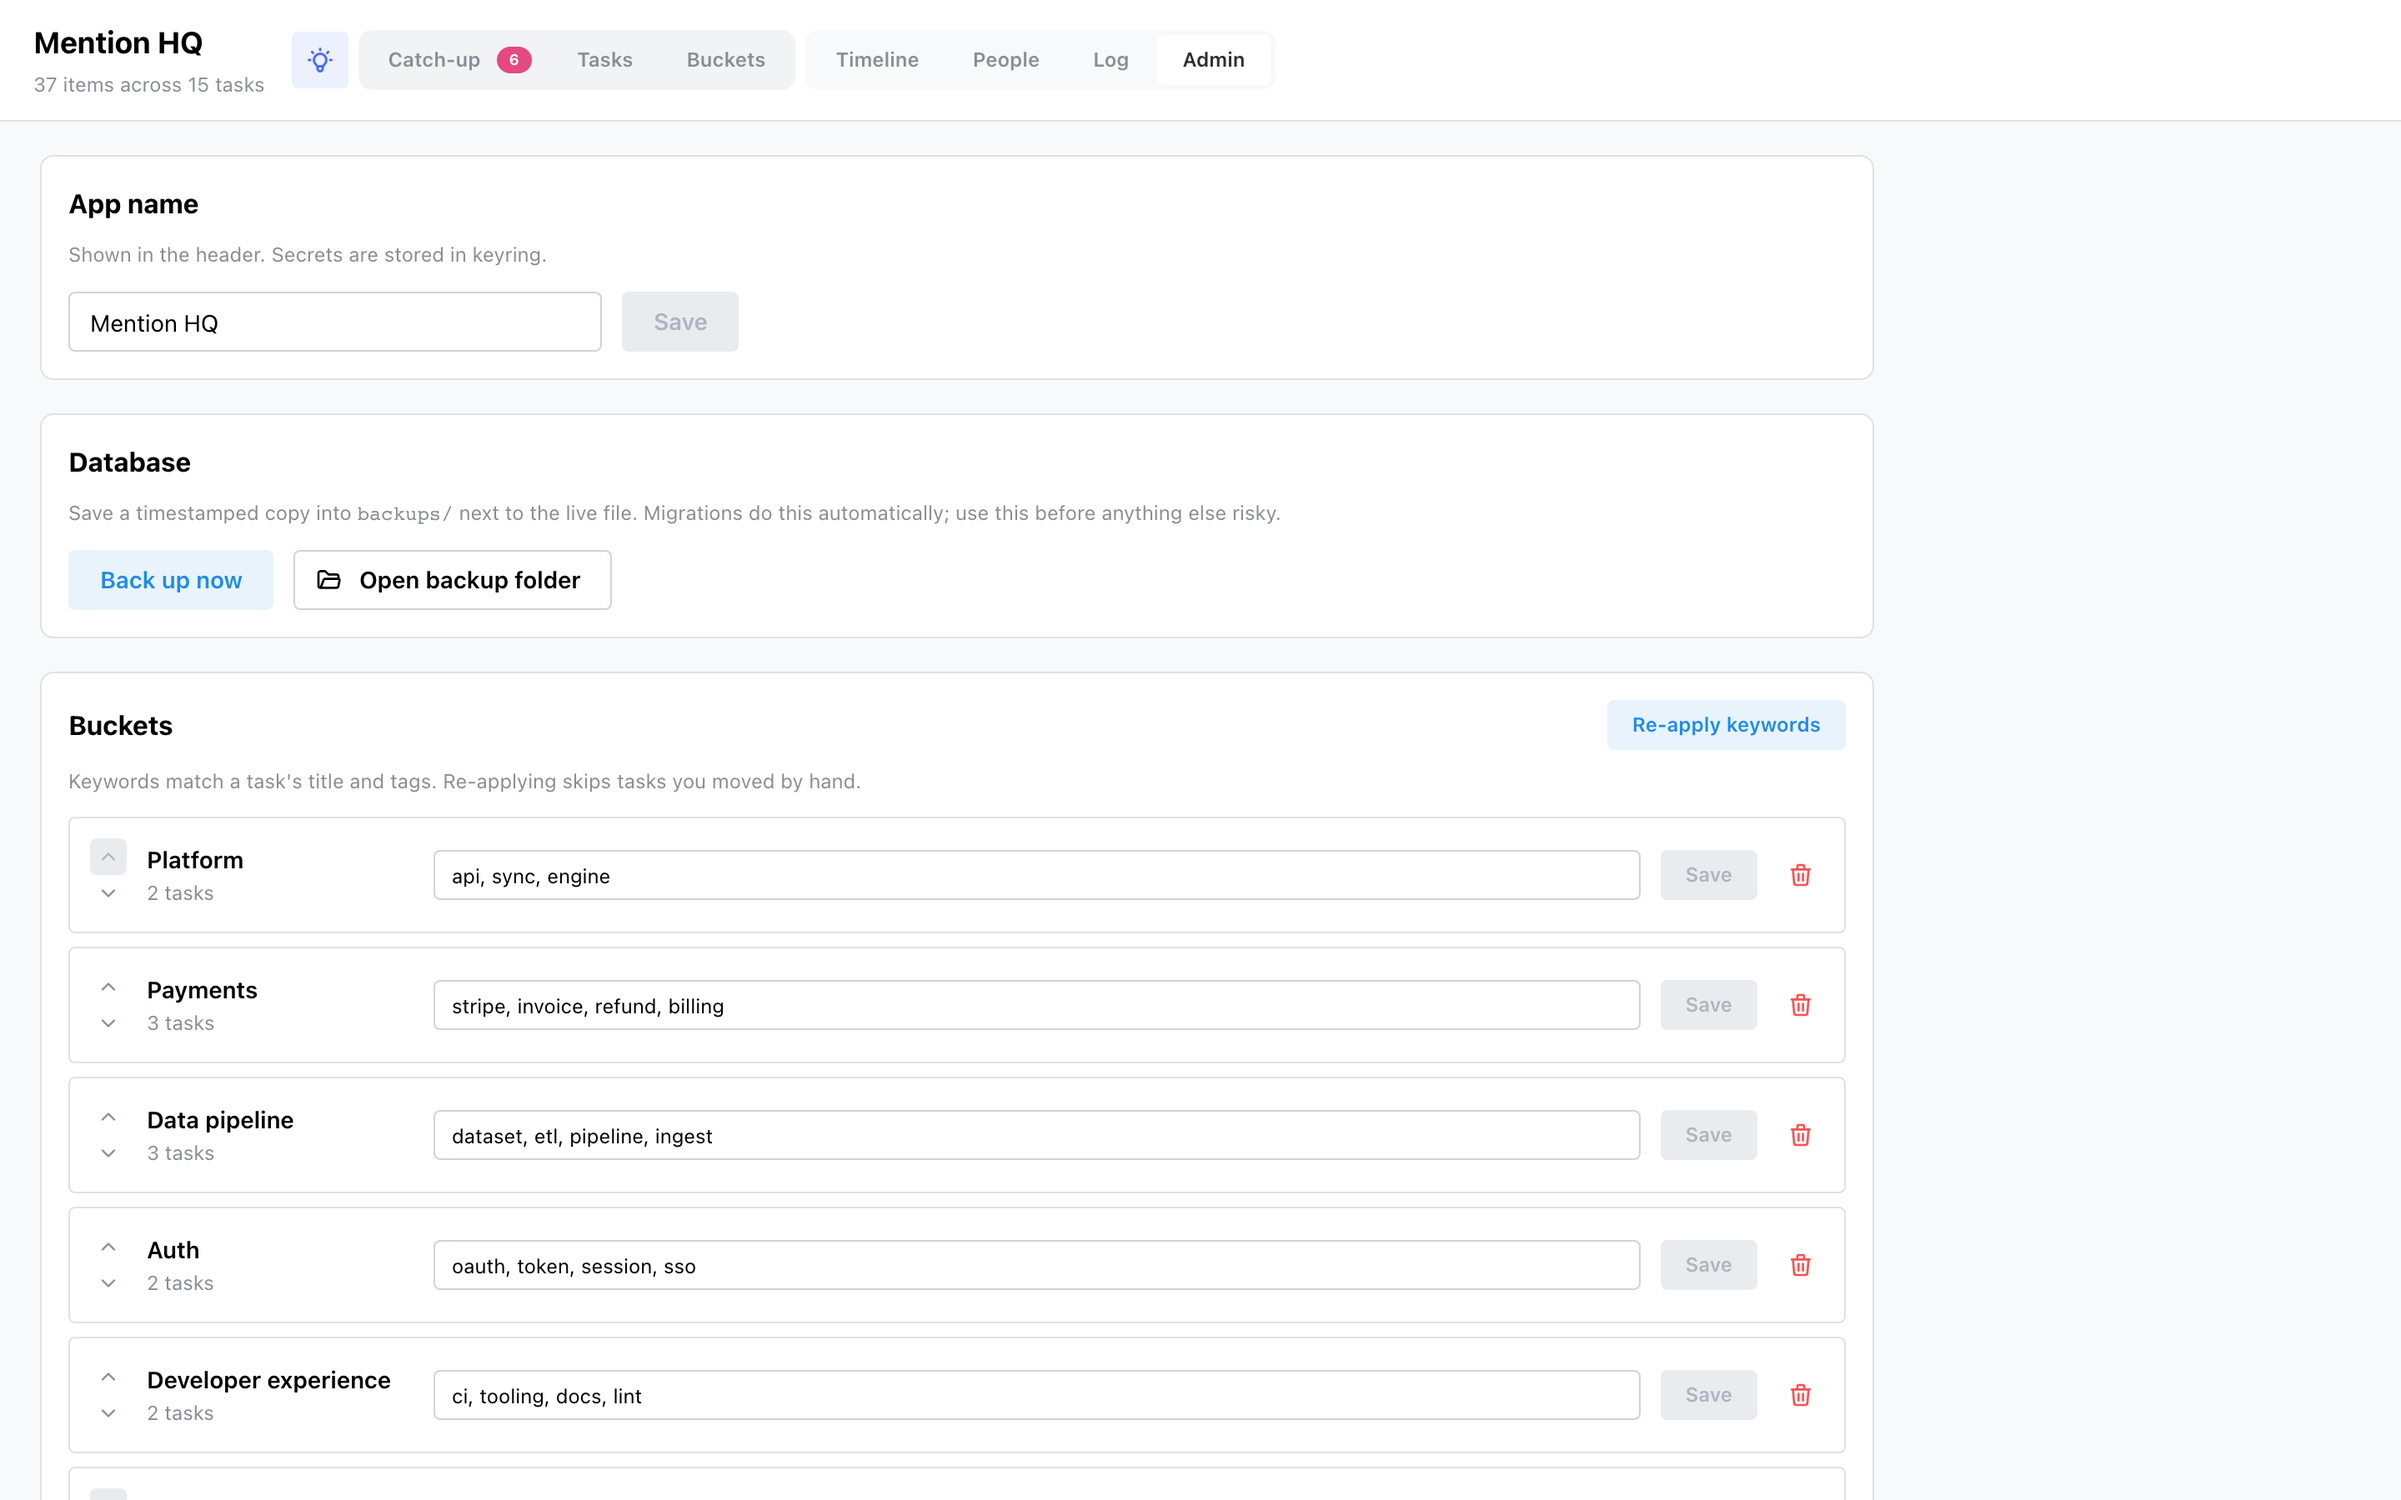
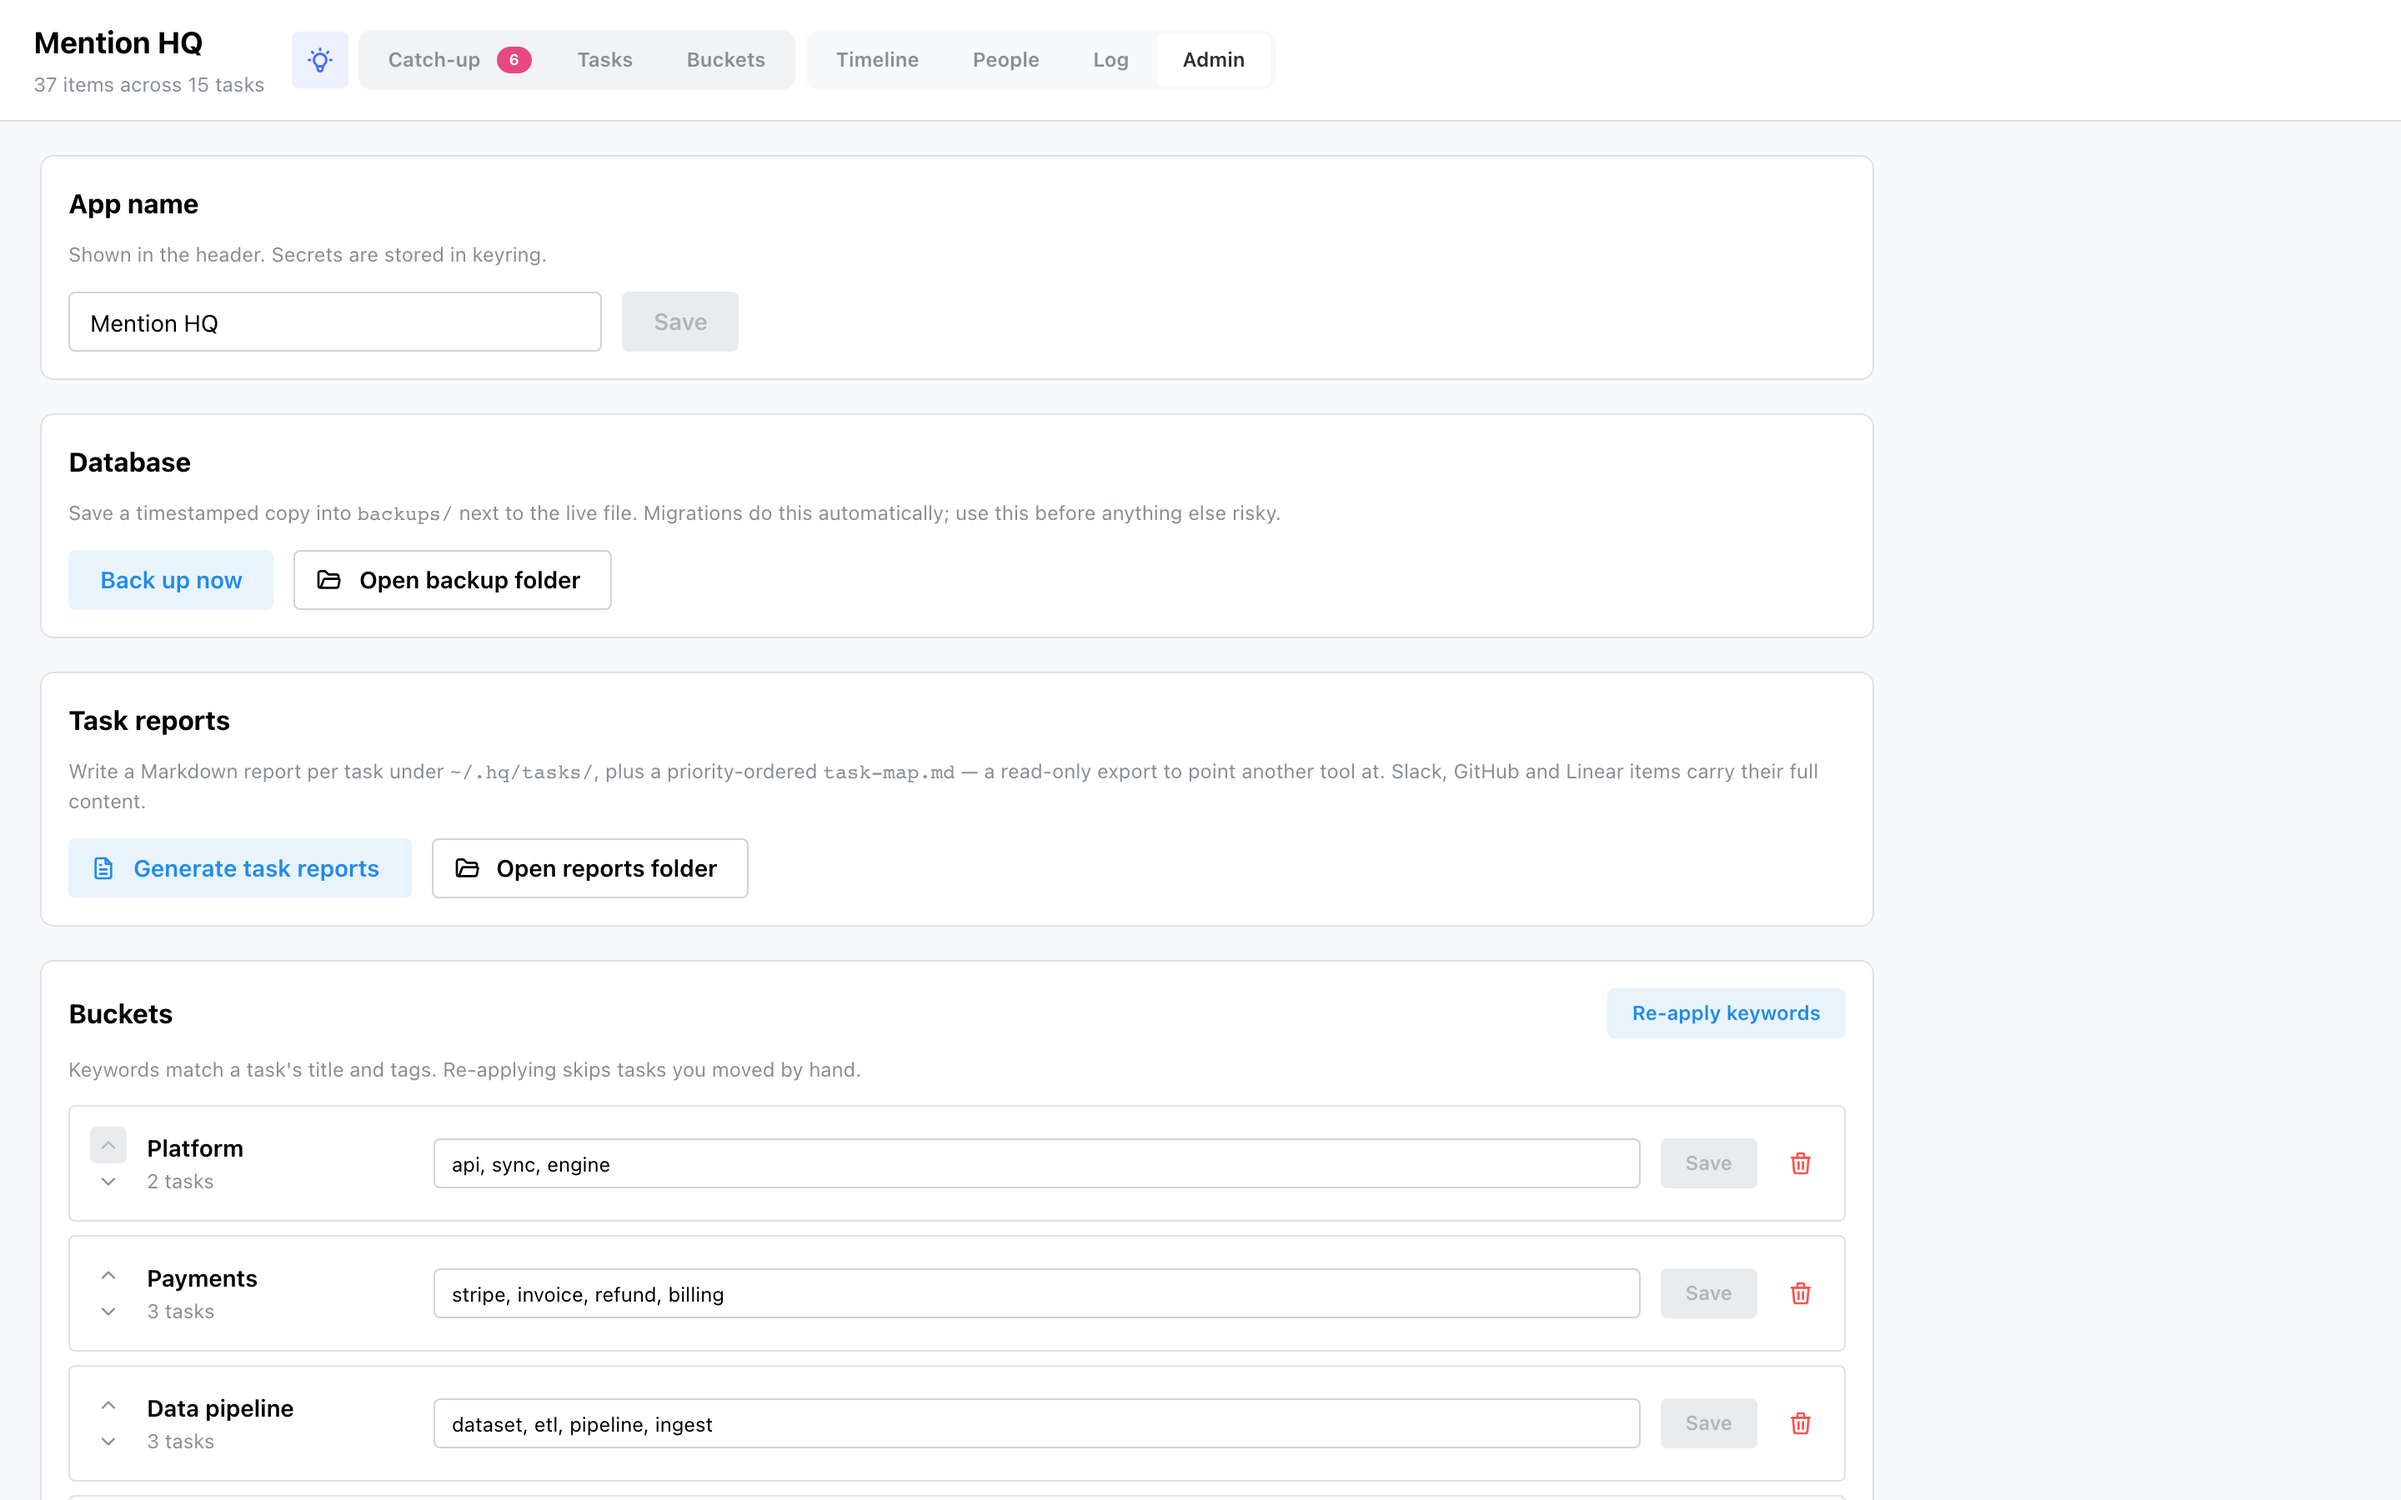
docs: document task reports and refresh the admin screenshot
A new Task reports page covers what the export writes (per-task report + the
priority-ordered task-map), what content each source contributes, and the Slack
scope caveat. Recapture the admin screenshot for the new panel.

diff --git a/docs/task-reports.md b/docs/task-reports.md
@@ -1,0 +1,54 @@
+---
+icon: lucide/file-text
+---
+
+# Task reports
+
+HQ can export every task as a self-contained Markdown **report** on disk, plus a `task-map.md`
+index — so a task's whole context is one file to read, or to hand to another tool. It's a read-only
+export: HQ never posts anything back to a source.
+
+Generate them from **Admin → Task reports → Generate task reports** (or `POST /api/tasks/reports`).
+
+## What gets written
+
+Under `~/.hq/` (override with the `HQ_DIR` environment variable):
+
+```
+~/.hq/
+├── task-map.md                 # every task, most urgent first; archived clearly marked
+└── tasks/
+    └── {id}/report.md          # one report per task
+```
+
+- **`task-map.md`** — a table ordered by priority (highest first): task, status, bucket, an
+  **Archived** column, item count, and a link to each report.
+- **`tasks/{id}/report.md`** — the task's title, status, bucket, priority, tags and archived flag;
+  its description and AI next action; the people involved; then every item with its **full
+  content**, not just a link.
+
+## Content, not just links
+
+Reports pull the real content wherever HQ can reach it:
+
+| Source | In the report |
+|---|---|
+| **GitHub** | The PR/issue body and its comments (review + discussion), fetched live |
+| **Linear** | The issue description and comments, fetched live |
+| **Slack** | The full message content (kept from the search HQ already runs — no extra scope) + a permalink to the thread |
+| **Markdown / todos / notes** | The local file body / the note's text |
+
+Live fetches are best-effort: if one fails, that item falls back to its stored fields (title, link,
+status) rather than sinking the whole report.
+
+!!! note "Slack threads"
+
+    Slack shows the **matched message's** content. The complete thread transcript (every reply)
+    needs Slack *history* scopes HQ doesn't request, so the report links out to the thread for the
+    rest.
+
+## Pointing a tool at it
+
+Because the map is priority-ordered and marks archived tasks, it's a natural work-list: read
+`task-map.md`, skip the archived rows, open each report for the full context. Regenerate any time to
+refresh — the endpoint rewrites every report and the map.
